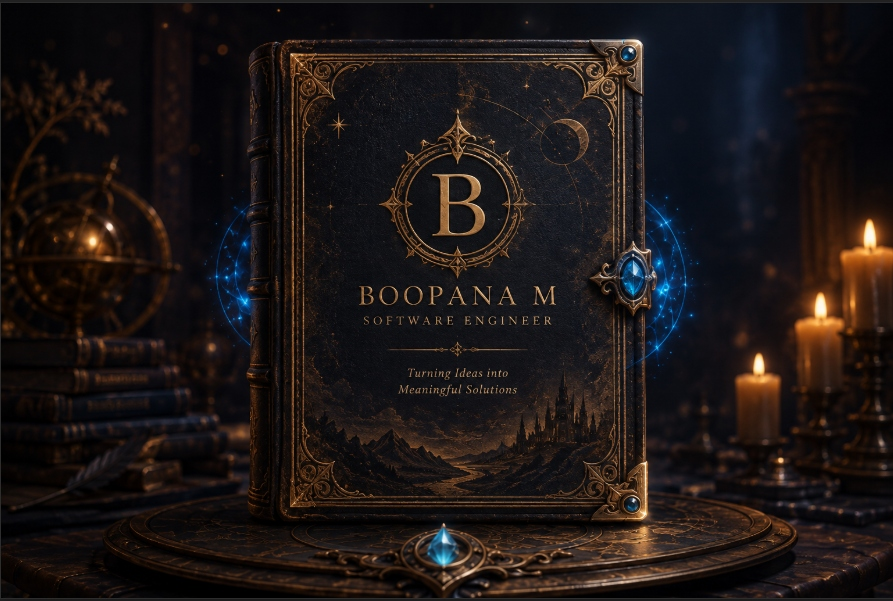
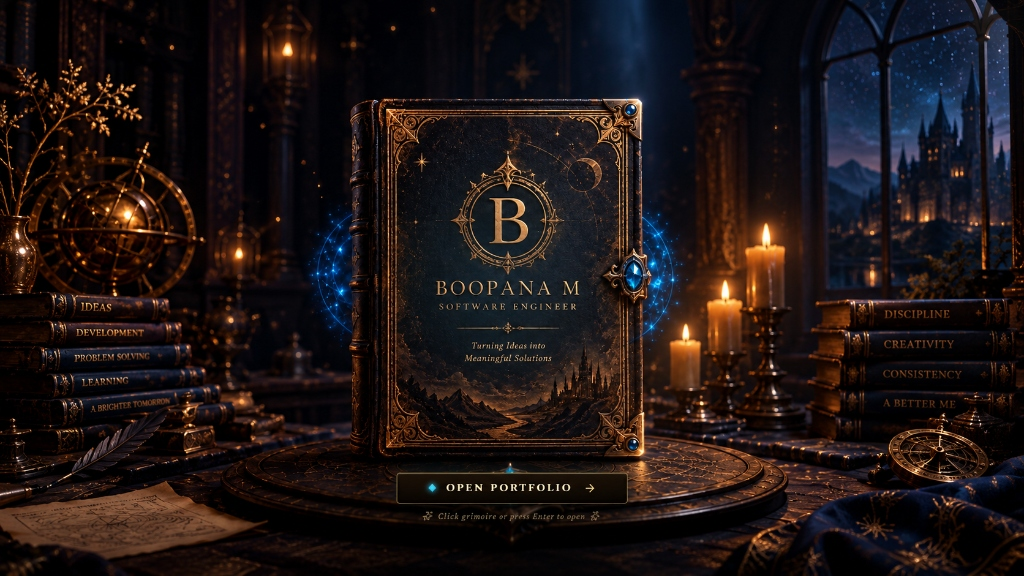
Aspect Ratio Preservation & Responsive Cropping

diff --git a/src/components/Landing/landing.css b/src/components/Landing/landing.css
@@ -1,5 +1,5 @@
 /* =========================================
-   Landing Screen Styling (Full-Screen Responsive Cover Background)
+   Landing Screen Styling (Full Book Visible - 16:9 High-Res Scene)
    ========================================= */
 
 .landing-screen-container {
@@ -10,9 +10,11 @@
   height: 100vh;
   z-index: 100;
   overflow: hidden;
+  background: 
+    radial-gradient(ellipse 70% 60% at 50% 50%, rgba(26, 20, 15, 0.75) 0%, rgba(10, 8, 6, 0.98) 75%, #050403 100%),
+    #060504;
   display: flex;
-  flex-direction: column;
-  justify-content: flex-end;
+  justify-content: center;
   align-items: center;
   perspective: 2000px;
   transition: opacity 0.9s cubic-bezier(0.4, 0, 0.2, 1), transform 0.9s cubic-bezier(0.4, 0, 0.2, 1);
@@ -24,23 +26,33 @@
   transform: scale(1.04);
 }
 
-/* Full-Screen Cover Background - 100vw x 100vh, object-fit: cover, center center */
+/* Contained Cinematic Grimoire Stage (Maintains exact 16:9 aspect ratio so full scene is visible) */
+.landing-scene-stage {
+  position: relative;
+  width: min(100vw, calc(100vh * (16 / 9)));
+  height: min(100vh, calc(100vw / (16 / 9)));
+  max-width: 100vw;
+  max-height: 100vh;
+  display: flex;
+  align-items: center;
+  justify-content: center;
+  transform-style: preserve-3d;
+}
+
+/* Full High-Resolution Cinematic Scene */
 .landing-cinematic-backdrop {
   position: absolute;
   inset: 0;
   width: 100%;
   height: 100%;
-  min-height: 100vh;
   z-index: 1;
-  overflow: hidden;
   pointer-events: none;
 }
 
 .landing-scene-image {
   width: 100%;
   height: 100%;
-  min-height: 100vh;
-  object-fit: cover;
+  object-fit: contain;
   object-position: center center;
   pointer-events: none;
   filter: contrast(1.04) brightness(0.98);
@@ -49,33 +61,32 @@
 /* Candlelight Warm Flicker on the right candles */
 .landing-candle-aura {
   position: absolute;
-  top: 50%;
-  right: 12%;
-  transform: translateY(-50%);
-  width: min(350px, 30vw);
-  height: min(450px, 45vh);
+  top: 54%;
+  right: 27%;
+  width: 18%;
+  height: 35%;
   border-radius: 50%;
-  background: radial-gradient(circle at 60% 45%, rgba(255, 175, 75, 0.18) 0%, rgba(240, 130, 40, 0.06) 50%, transparent 70%);
-  filter: blur(30px);
+  background: radial-gradient(circle at 60% 45%, rgba(255, 175, 75, 0.22) 0%, rgba(240, 130, 40, 0.08) 50%, transparent 70%);
+  filter: blur(25px);
   pointer-events: none;
   z-index: 2;
   animation: candleFlickerAnim 3.5s ease-in-out infinite alternate;
 }
 
 @keyframes candleFlickerAnim {
-  0% { opacity: 0.7; transform: translateY(-50%) scale(0.97); }
-  50% { opacity: 1; transform: translateY(-50%) scale(1.03); }
-  100% { opacity: 0.85; transform: translateY(-50%) scale(0.99); }
+  0% { opacity: 0.7; transform: scale(0.97); }
+  50% { opacity: 1; transform: scale(1.03); }
+  100% { opacity: 0.85; transform: scale(0.99); }
 }
 
 /* Arcane Blue Core Pulse behind the Grimoire */
 .landing-arcane-aura {
   position: absolute;
   top: 48%;
-  left: 50%;
+  left: 48.5%;
   transform: translate(-50%, -50%);
-  width: min(520px, 70vw);
-  height: min(520px, 70vw);
+  width: 32%;
+  height: 52%;
   border-radius: 50%;
   background: radial-gradient(circle, rgba(76, 159, 196, 0.24) 0%, rgba(110, 208, 224, 0.07) 50%, transparent 70%);
   filter: blur(24px);
@@ -89,17 +100,17 @@
   100% { opacity: 1; transform: translate(-50%, -50%) scale(1.05); }
 }
 
-/* Interactive Center Hotspot exactly over the centered Grimoire */
+/* Interactive Center Hotspot exactly over the Grimoire in the scene */
 .landing-book-interactive-hotspot {
   position: absolute;
   top: 48%;
-  left: 50%;
+  left: 48.5%;
   transform: translate(-50%, -50%);
-  width: min(450px, 62vw);
-  height: min(650px, 76vh);
+  width: 29.5%;
+  height: 63.5%;
   z-index: 10;
   cursor: pointer;
-  border-radius: 12px;
+  border-radius: 8px;
   outline: none;
 }
 
@@ -132,10 +143,10 @@
 .landing-opening-3d-leaf {
   position: absolute;
   top: 48%;
-  left: 50%;
+  left: 48.5%;
   transform: translate(-50%, -50%);
-  width: min(440px, 60vw);
-  height: min(640px, 74vh);
+  width: 29.2%;
+  height: 63%;
   transform-style: preserve-3d;
   pointer-events: none;
   z-index: 15;
@@ -192,9 +203,11 @@
 
 /* "OPEN PORTFOLIO" CTA Bottom Controls */
 .landing-cta-controls {
-  position: relative;
+  position: absolute;
+  bottom: 3.5%;
+  left: 48.5%;
+  transform: translateX(-50%);
   z-index: 30;
-  margin-bottom: max(20px, 3.5vh);
   display: flex;
   flex-direction: column;
   align-items: center;
@@ -206,9 +219,9 @@
   align-items: center;
   justify-content: center;
   gap: clamp(8px, 1.2vw, 14px);
-  padding: clamp(10px, 1.5vh, 14px) clamp(26px, 2.8vw, 44px);
+  padding: clamp(9px, 1.4vh, 13px) clamp(24px, 2.6vw, 42px);
   font-family: var(--font-title, 'Cinzel', serif);
-  font-size: clamp(0.82rem, 1.25vh, 0.95rem);
+  font-size: clamp(0.78rem, 1.2vh, 0.92rem);
   font-weight: 700;
   letter-spacing: 0.26em;
   text-transform: uppercase;
@@ -289,23 +302,39 @@
 }
 
 /* Mobile Responsiveness */
-@media (max-width: 640px) {
+@media (max-width: 768px) {
+  .landing-scene-stage {
+    width: 100vw;
+    height: 100vh;
+  }
+
+  .landing-scene-image {
+    object-fit: cover;
+    object-position: 48.5% center;
+  }
+
   .landing-book-interactive-hotspot {
     width: min(340px, 86vw);
     height: min(500px, 68vh);
+    top: 48%;
+    left: 50%;
   }
 
   .landing-opening-3d-leaf {
     width: min(336px, 85vw);
     height: min(495px, 67vh);
+    top: 48%;
+    left: 50%;
   }
 
   .landing-arcane-aura {
     width: 80vw;
     height: 80vw;
+    left: 50%;
   }
 
   .landing-cta-controls {
-    margin-bottom: max(16px, 3vh);
+    bottom: max(16px, 3.5vh);
+    left: 50%;
   }
 }

diff --git a/src/components/Landing/LandingScreen.tsx b/src/components/Landing/LandingScreen.tsx
@@ -23,54 +23,57 @@ export const LandingScreen: React.FC<LandingScreenProps> = ({
       className={`landing-screen-container ${isOpening ? 'landing-opening' : ''}`}
       aria-label="Boopana M Grimoire Portfolio Hero"
     >
-      {/* 1. Full-Screen High-Resolution Background Cover (100vw x 100vh, object-fit: cover, center center) */}
-      <div className="landing-cinematic-backdrop" aria-hidden="true">
-        <img
-          src="/closed-book-cover.jpg"
-          alt="Boopana M — Antique Grimoire Portfolio Background"
-          className="landing-scene-image"
-          loading="eager"
-        />
-        <div className="landing-candle-aura" />
-        <div className="landing-arcane-aura" />
-      </div>
-
-      {/* 2. Interactive Hotspot centered over the Grimoire */}
-      <div
-        className="landing-book-interactive-hotspot"
-        role="button"
-        tabIndex={0}
-        onClick={onOpen}
-        onKeyDown={handleKeyDown}
-        aria-label="Click to open Boopana M's Portfolio Grimoire"
-      />
-
-      {/* 3. 3D Physical Opening Cover Leaf */}
-      <div className="landing-opening-3d-leaf" aria-hidden="true">
-        <div className="landing-cover-leaf-outer">
-          <div className="landing-cover-leaf-inner" />
+      {/* Centered, contained scene stage ensuring the entire book is 100% visible from top to bottom */}
+      <div className="landing-scene-stage">
+        {/* 1. Full High-Resolution Grimoire Scene */}
+        <div className="landing-cinematic-backdrop" aria-hidden="true">
+          <img
+            src="/closed-book-cover.jpg"
+            alt="Boopana M — Antique Grimoire Portfolio Background"
+            className="landing-scene-image"
+            loading="eager"
+          />
+          <div className="landing-candle-aura" />
+          <div className="landing-arcane-aura" />
         </div>
-      </div>
 
-      {/* 4. Responsive "OPEN PORTFOLIO" CTA Controls positioned cleanly above background */}
-      <div className="landing-cta-controls">
-        <button
-          type="button"
-          className="landing-open-btn"
+        {/* 2. Interactive Hotspot centered over the Grimoire */}
+        <div
+          className="landing-book-interactive-hotspot"
+          role="button"
+          tabIndex={0}
           onClick={onOpen}
-          disabled={isOpening}
-          aria-label="Open Portfolio Grimoire"
-        >
-          <span className="landing-btn-gem" aria-hidden="true" />
-          <span>OPEN PORTFOLIO</span>
-          <ArrowRight size={17} className="landing-btn-arrow" aria-hidden="true" />
-        </button>
+          onKeyDown={handleKeyDown}
+          aria-label="Click to open Boopana M's Portfolio Grimoire"
+        />
 
-        <p className="landing-cta-hint" aria-hidden="true">
-          <Sparkles size={13} />
-          Click grimoire or press Enter to open
-          <Sparkles size={13} />
-        </p>
+        {/* 3. 3D Physical Opening Cover Leaf */}
+        <div className="landing-opening-3d-leaf" aria-hidden="true">
+          <div className="landing-cover-leaf-outer">
+            <div className="landing-cover-leaf-inner" />
+          </div>
+        </div>
+
+        {/* 4. Responsive "OPEN PORTFOLIO" CTA Controls */}
+        <div className="landing-cta-controls">
+          <button
+            type="button"
+            className="landing-open-btn"
+            onClick={onOpen}
+            disabled={isOpening}
+            aria-label="Open Portfolio Grimoire"
+          >
+            <span className="landing-btn-gem" aria-hidden="true" />
+            <span>OPEN PORTFOLIO</span>
+            <ArrowRight size={17} className="landing-btn-arrow" aria-hidden="true" />
+          </button>
+
+          <p className="landing-cta-hint" aria-hidden="true">
+            <Sparkles size={13} />
+            Click grimoire or press Enter to open
+            <Sparkles size={13} />
+          </p>
+        </div>
       </div>
     </section>
   );
